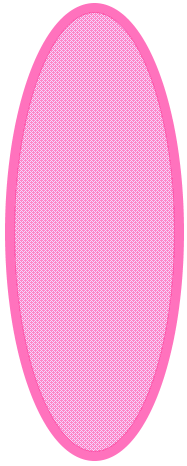
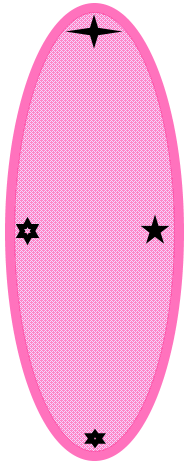
added a perspective matrix view and attempted to rotate bullets in the direction of their velocity

diff --git a/App/src/main/java/App.java b/App/src/main/java/App.java
@@ -1,3 +1,5 @@
+import graphicslib3D.*;
+
 import static com.jogamp.opengl.GL4.*;
 import com.jogamp.opengl.*;
 import com.jogamp.opengl.awt.GLCanvas;
@@ -5,9 +7,9 @@ import com.jogamp.opengl.util.awt.TextRenderer;
 import com.jogamp.common.nio.Buffers;
 
 import java.awt.*;
+import java.nio.*;
 
 import javax.swing.*;
-import java.nio.*;
 
 import java.util.Random;
 
@@ -93,12 +95,12 @@ public class App extends JFrame implements GLEventListener {
         }
     }
 
-    // User Interaction (10)
+    // User Interaction
     public void processInput() {
         // TODO
     }
 
-    // Physics (10) and Collision (10) I guess idk
+    // Physics and Collision I guess idk
     public void update() {
         _danmakufuPool.update();
     }
@@ -117,7 +119,7 @@ public class App extends JFrame implements GLEventListener {
         drawBackground(glAD);
 
         // Display the danmakufuPool
-        _danmakufuPool.render(glAD, _elapsed);
+        _danmakufuPool.render(glAD, _elapsed, perspective());
     }
 
     private void clearCanvas(GLAutoDrawable glAD) {
@@ -157,18 +159,21 @@ public class App extends JFrame implements GLEventListener {
         // Create danmakufu pool
         _danmakufuPool = new DanmakufuPool();
 
-        // _danmakufuPool.addDanmakufu(0, 0, 0.0, 0.0, 1000);
+        if (true) {
+            _danmakufuPool.addDanmakufu(0, 0, -0.001, 0.001, 1000);
+        }
+        else {
+            Random rand = new Random(System.currentTimeMillis());
 
-        Random rand = new Random(System.currentTimeMillis());
+            for (int i = 0; i < _danmakufuPool.getPoolSize(); i++) {
+                double x = rand.nextDouble() * 2 - 1;
+                double y = rand.nextDouble() * 2 - 1;
+                double xVel = rand.nextDouble() / 1000 * (rand.nextInt() % 2 == 0 ? 1 : -1);
+                double yVel = rand.nextDouble() / 1000 * (rand.nextInt() % 2 == 0 ? 1 : -1);
+                int lifetime = rand.nextInt() % 1000;
 
-        for (int i = 0; i < _danmakufuPool.getPoolSize(); i++) {
-            double x = rand.nextDouble() * 2 - 1;
-            double y = rand.nextDouble() * 2 - 1;
-            double xVel = rand.nextDouble() / 1000 * (rand.nextInt() % 2 == 0 ? 1 : -1);
-            double yVel = rand.nextDouble() / 100 * -1;
-            int lifetime = rand.nextInt() % 1000;
-
-            _danmakufuPool.addDanmakufu(x, y, xVel, yVel, lifetime);
+                _danmakufuPool.addDanmakufu(x, y, xVel, yVel, lifetime);
+            }
         }
     }
 
@@ -181,6 +186,36 @@ public class App extends JFrame implements GLEventListener {
             int arg4) {
         // TODO
     }
+
+    // Defines an orthographic perspective
+    private Matrix3D perspective() {
+        Matrix3D perspective = new Matrix3D();
+
+        float canvasWidth = (float) _myCanvas.getWidth();
+        float canvasHeight = (float) _myCanvas.getHeight();
+
+        // bounds
+        float top = canvasHeight, right = canvasWidth, bot = -canvasHeight,
+                left = -canvasHeight;
+        // clipping
+        float near = -1.0f, far = 1.0f;
+        // vars
+        float width = right - left;
+        float height = top - bot;
+        float clipDiff = far - near;
+
+        // viewport x
+        perspective.setElementAt(0, 0, 2.0f / width);
+        perspective.setElementAt(0, 3, -1.0f * ((right + left) / width));
+        // viewport y
+        perspective.setElementAt(1, 1, 2.0f / height);
+        perspective.setElementAt(1, 3, -1.0f * ((top + bot) / height));
+        // viewport z
+        perspective.setElementAt(2, 2, 1.0f / clipDiff);
+        perspective.setElementAt(2, 3, -1.0f * (near / clipDiff));
+
+        return perspective;
+  }
 
     /*
      * main

diff --git a/App/src/main/java/Danmakufu.java b/App/src/main/java/Danmakufu.java
@@ -49,7 +49,7 @@ public class Danmakufu {
         return _lifetime < 1;
     }
 
-    public void render(GLAutoDrawable glAD, double elapsed) {
+    public void render(GLAutoDrawable glAD, double elapsed, Matrix3D pMat) {
         if (!isInUse()) {
             return;
         }
@@ -58,18 +58,41 @@ public class Danmakufu {
 
         gl.glUseProgram(_model.getRenderingProgram());
 
-        // Make the translation matrix
+        // Make the model matrix
         Matrix3D mMat = new Matrix3D();
+
+        // rotate
+        double rotAmt = 0.0f;
+
+        if (_xVel == 0.0) {
+            rotAmt = _yVel < 0 ? 90.0f : 0.0f;
+        }
+        else if (_yVel == 0.0) {
+            rotAmt = _xVel < 0 ? 45.0f : 135.0f;
+        }
+        else {
+            // This is stupid. Have to change [ -180, 180 ] to [ -90, 90 ] and
+            //  north orientation to right orientation
+            rotAmt = (Math.toDegrees(Math.atan2(_yVel, _xVel)) -90.0f) / 2.0f;
+        }
+System.out.printf("%f%n", rotAmt);
+        mMat.rotateZ(rotAmt);
+
+        // translate
         mMat.translate(_x + _xVel * elapsed, _y + _yVel * elapsed, 0.0);
-        mMat.scale(0.007, 0.02, 0.0);
+        // scale
+        mMat.scale(0.5, 0.5, 0.0);
 
-        int mv_loc = gl.glGetUniformLocation(_model.getRenderingProgram(),
+        int m_loc = gl.glGetUniformLocation(_model.getRenderingProgram(),
                 "mv_matrix");
+        int p_loc = gl.glGetUniformLocation(_model.getRenderingProgram(),
+                "p_matrix");
 
-        // Predict where the object should be between update calls
-        gl.glUniformMatrix4fv(mv_loc, 1, false, mMat.getFloatValues(), 0);
+        // Bind matricies
+        gl.glUniformMatrix4fv(m_loc, 1, false, mMat.getFloatValues(), 0);
+        gl.glUniformMatrix4fv(p_loc, 1, false, mMat.getFloatValues(), 0);
 
-        // set up arrays to draw
+        // Set up arrays to draw
         gl.glBindBuffer(GL_ARRAY_BUFFER, _model.getVBO()[0]);
         gl.glVertexAttribPointer(0, 3, GL_FLOAT, false, 0, 0);
         gl.glEnableVertexAttribArray(0);

diff --git a/App/src/main/java/DanmakufuModel.java b/App/src/main/java/DanmakufuModel.java
@@ -45,24 +45,24 @@ public class DanmakufuModel {
 
         float[] vertex_positions = {
             // Top Triangle
-            -1.0f, 1.0f, 1.0f,
-            1.0f, -1.0f, 1.0f,
-            1.0f, 1.0f, 1.0f,
+            -1.0f, 4.0f, 1.0f, // Top Left
+            1.0f, -4.0f, 1.0f, // Bottom Right
+            1.0f, 4.0f, 1.0f,  // Top Right
             // Bottom Triangle
-            -1.0f, 1.0f, 1.0f,
-            1.0f, -1.0f, 1.0f,
-            -1.0f, -1.0f, 1.0f
+            -1.0f, 4.0f, 1.0f, // Top Left
+            1.0f, -4.0f, 1.0f, // Bottom Right
+            -1.0f, -4.0f, 1.0f // Bottom Left
         };
 
         float[] texture_coordinates = {
             // Top Triangle
-            0.0f, 1.0f,
-            1.0f, 0.0f,
-            1.0f, 1.0f,
+            0.0f, 1.0f, // Top Left
+            1.0f, 0.0f, // Bottom Right
+            1.0f, 1.0f, // Top Right
             // Bottom Triangle
-            0.0f, 1.0f,
-            1.0f, 0.0f,
-            0.0f, 0.0f
+            0.0f, 1.0f, // Top Left
+            1.0f, 0.0f, // Bottom Right
+            0.0f, 0.0f  // Bottom Left
         };
 
         gl.glGenVertexArrays(_vao.length, _vao, 0);

diff --git a/App/src/main/java/DanmakufuPool.java b/App/src/main/java/DanmakufuPool.java
@@ -1,3 +1,5 @@
+import graphicslib3D.*;
+
 import static com.jogamp.opengl.GL4.*;
 import com.jogamp.opengl.*;
 
@@ -50,9 +52,9 @@ public class DanmakufuPool {
         }
     }
 
-    public void render(GLAutoDrawable glAD, double elapsed) {
+    public void render(GLAutoDrawable glAD, double elapsed, Matrix3D pMat) {
         for (int i = 0; i < _pool.length; i++) {
-            _pool[i].render(glAD, elapsed);
+            _pool[i].render(glAD, elapsed, pMat);
         }
     }
 
